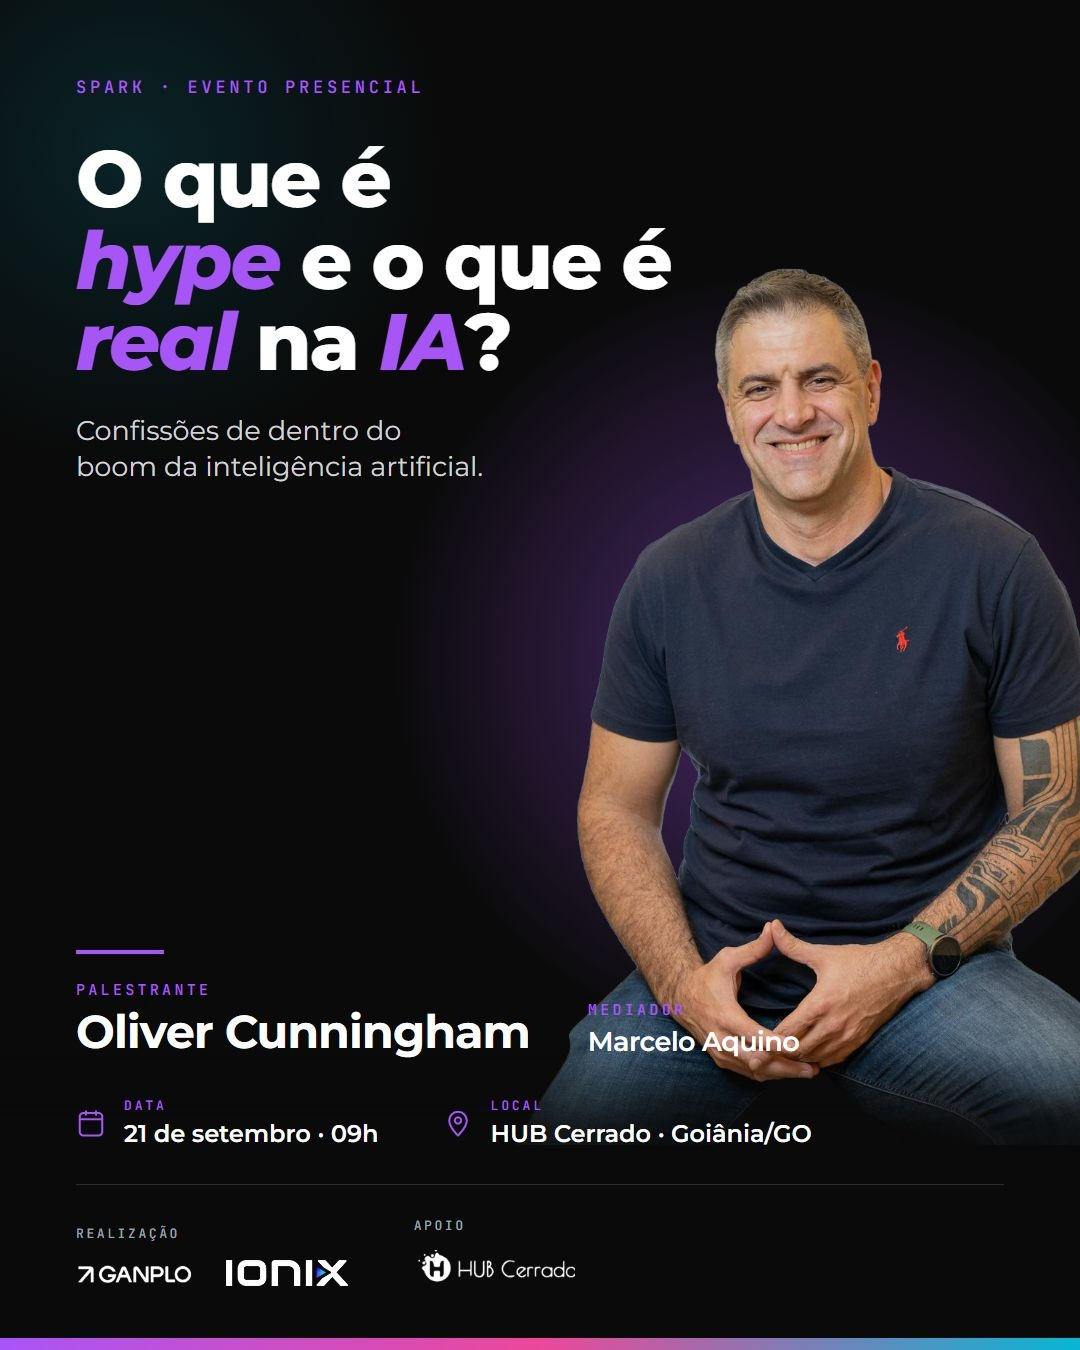
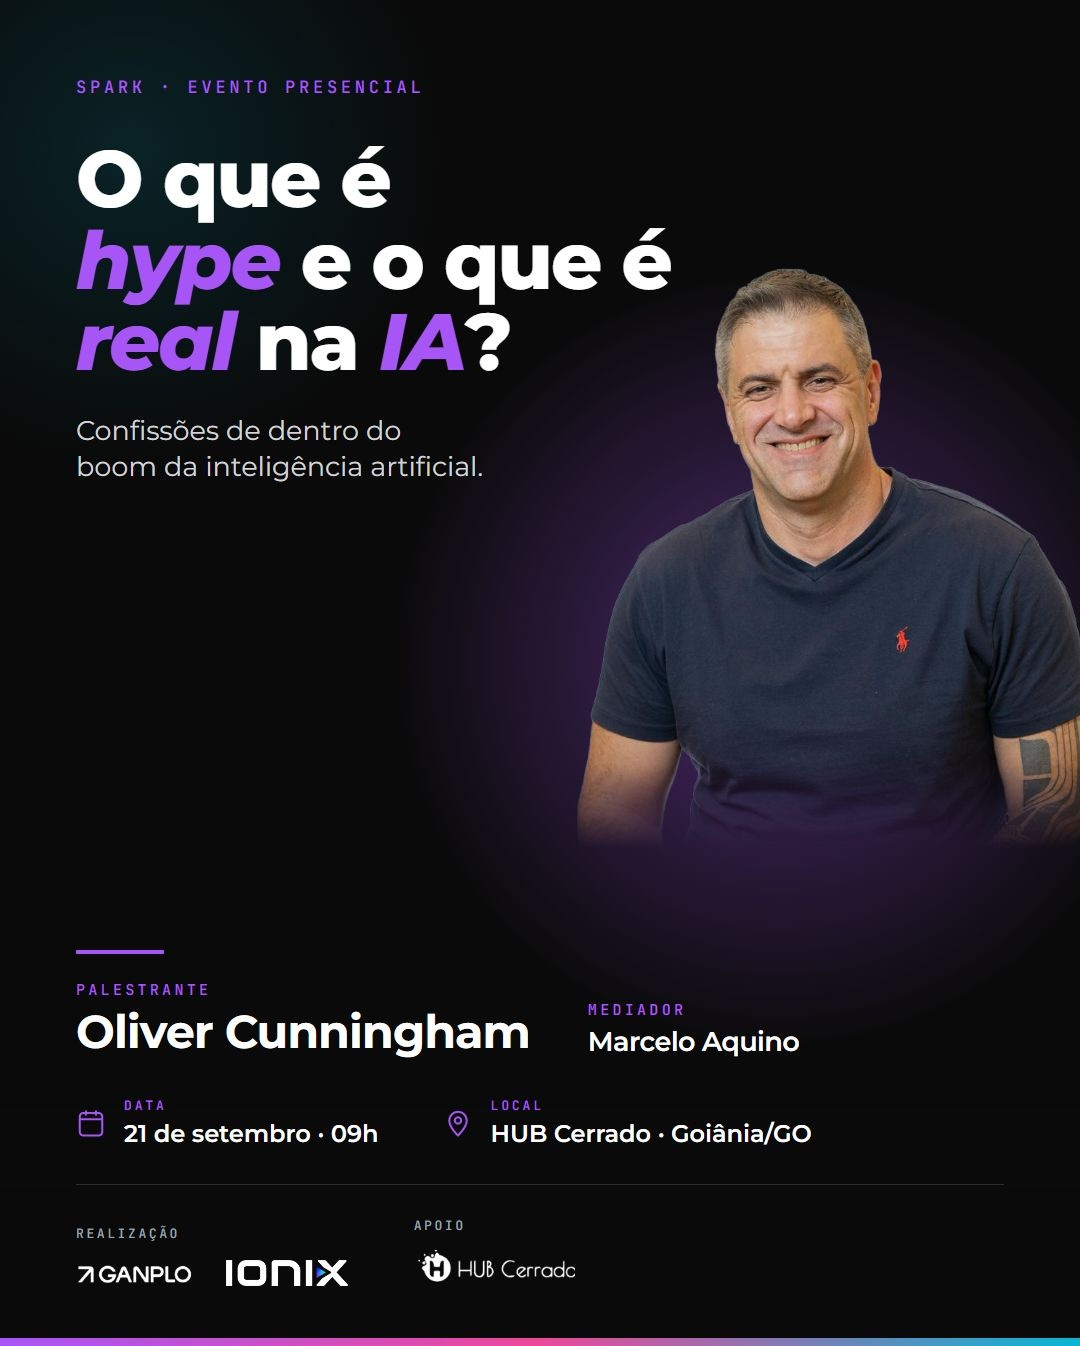
fix: recorta as maos da foto do Oliver

diff --git a/arte/arte.html b/arte/arte.html
@@ -27,7 +27,14 @@
   .glow-b{ left:-320px; top:-300px; width:900px; height:900px;
     background:radial-gradient(closest-side, rgba(6,182,212,.14), transparent 70%); }
 
-  .foto{ position:absolute; right:-40px; bottom:205px; width:620px; }
+  .foto{
+    position:absolute;
+    right:-40px;
+    bottom:205px;
+    width:620px;
+    -webkit-mask-image:linear-gradient(to bottom,#000 0%,#000 54%,rgba(0,0,0,.88) 59%,transparent 68%);
+    mask-image:linear-gradient(to bottom,#000 0%,#000 54%,rgba(0,0,0,.88) 59%,transparent 68%);
+  }
 
   /* escurece o pé pra data, local e créditos lerem por cima da foto */
   .pe{

diff --git a/styles.css b/styles.css
@@ -278,7 +278,9 @@ section { padding: 76px 0; }
   width: 100%;
   height: 100%;
   object-fit: cover;
-  object-position: center 18%;
+  object-position: center top;
+  transform: scale(1.32);
+  transform-origin: center top;
   display: block;
 }
 
